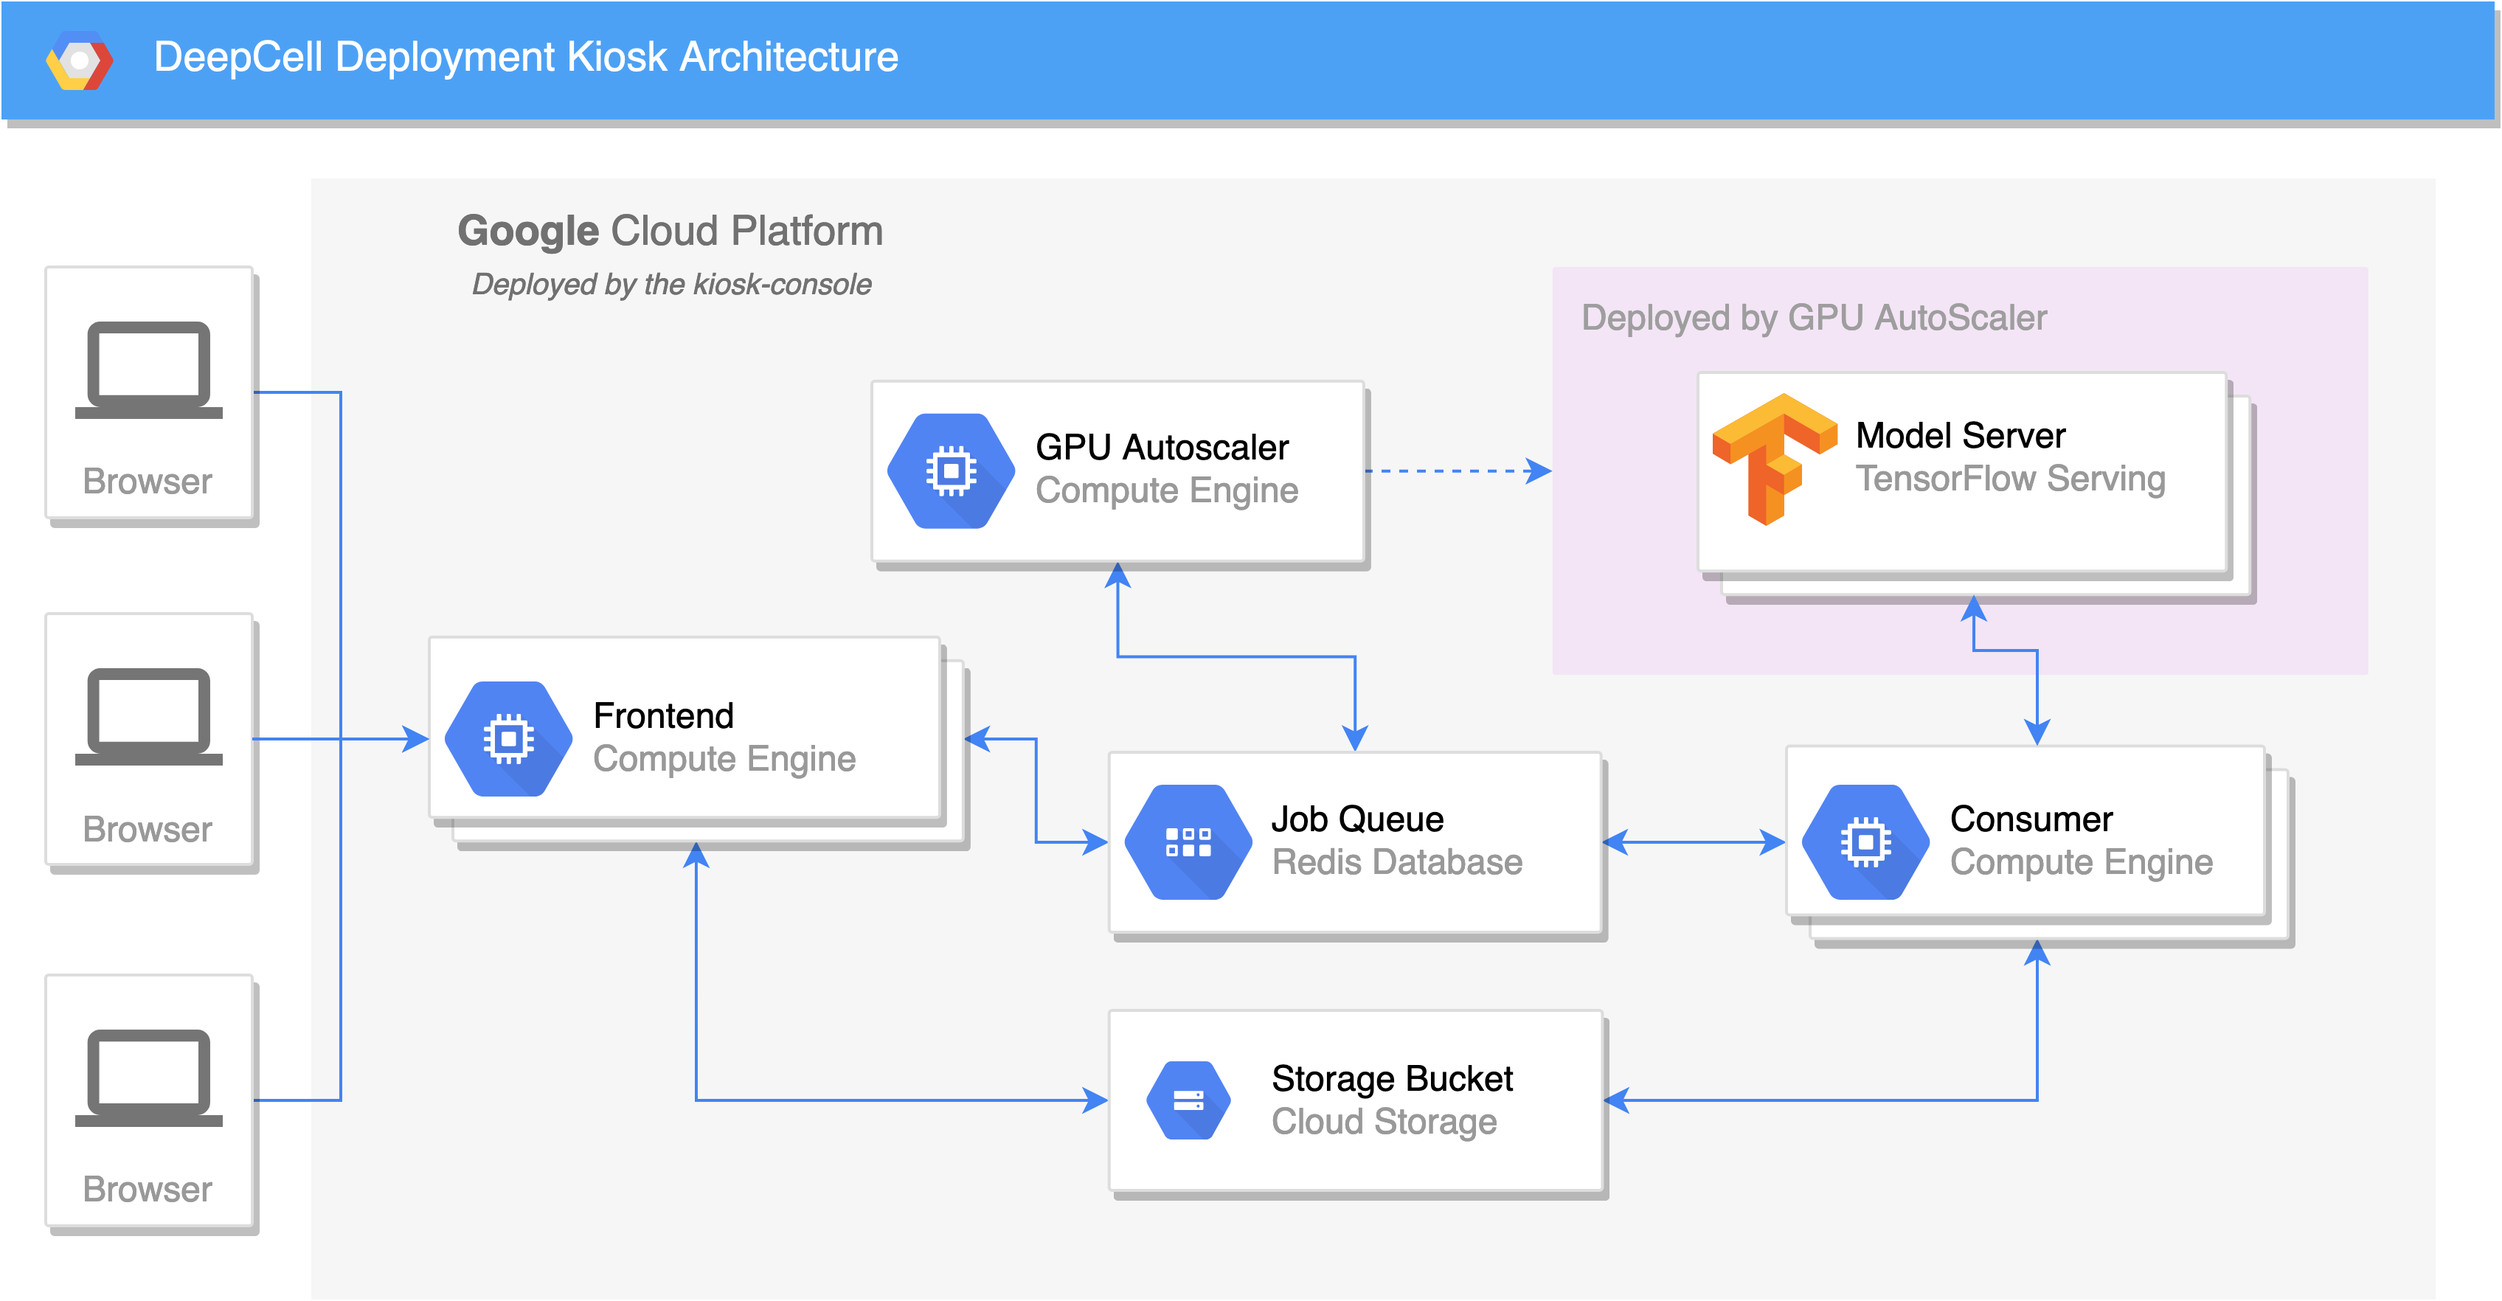
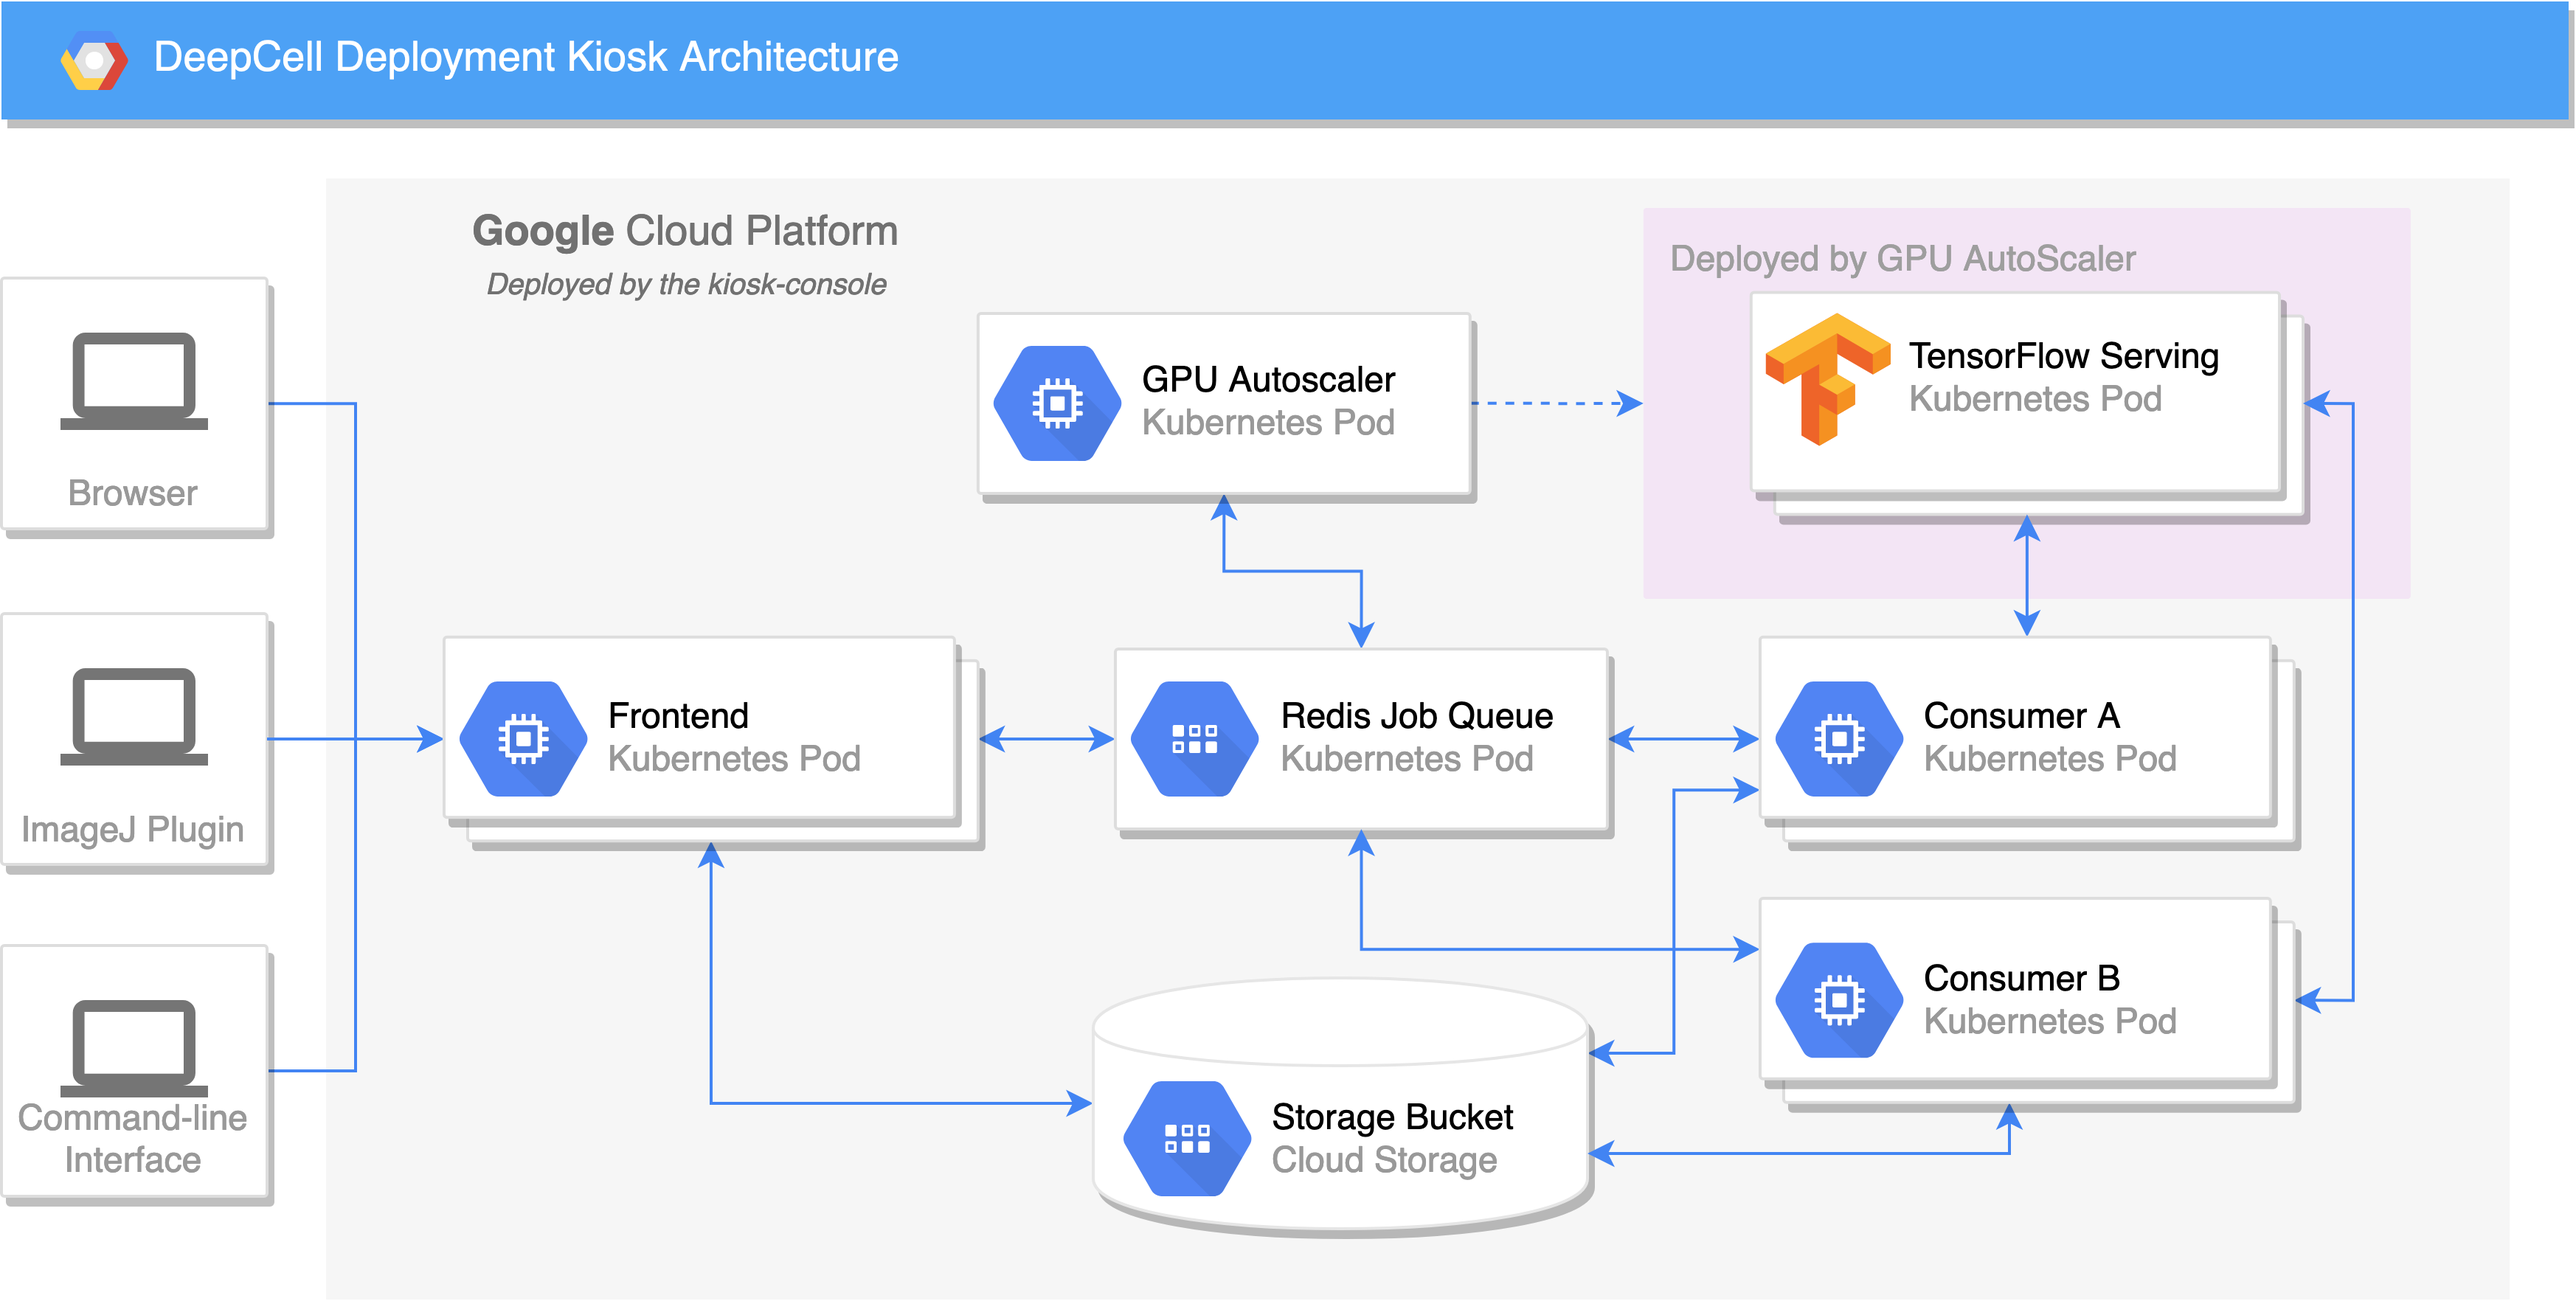
Doc tweaks for paper resubmission (#374)
* these are the files that correspond to figure S1

* adding benchmarking documentation

* cleaning up benchmarking documentation

* added in instructions on reproducing the figures from the paper

* fixing RST errors

* sequestering all benchmarking figure talk in its own subsections

* cleaned up so that the two benchmarking figure subsections can be easily moved over to publication-figures

* moving figure recreation details to publication-figures repo

* Update docs/source/DEVELOPER.rst

* Update docs/source/DEVELOPER.rst

* Update docs/source/DEVELOPER.rst

* Update docs/source/DEVELOPER.rst

* Update docs/source/DEVELOPER.rst

* trimming text

* cleaning benchmarking documentation

* Update docs/source/DEVELOPER.rst

* Update docs/source/DEVELOPER.rst

* Update docs/source/DEVELOPER.rst

* expanding benchmarking procedure documentation

* providing functioning public link to kiosk-benchmarking bucket

* punctuation cleanup

* Update docs/source/DEVELOPER.rst

* fixing corrupted link

* simplifying and unifying icons and connections in architecture diagram

* modifying reference to publication-figures repo to reflect reorganization of that repo

* updating link to publication-figures repo

* cleaning up architecture diagram

* Update docs/source/DEVELOPER.rst

* scaling to the desired dpi

* Upate spacing in architecture diagram (#375)

* One of the consumers should be "Consumer B".

* Update docs/source/DEVELOPER.rst

* touching up text

diff --git a/docs/source/DEVELOPER.rst b/docs/source/DEVELOPER.rst
@@ -144,3 +144,32 @@ The Deepcell Kiosk uses Google Kubernetes Engine to requisition resources on Goo
 5. any Persistent Disks associated with your cluster
 
 While we hope this list is comprehensive, there could be some lingering resources used by Google Cloud and not deleted automatically that we're not aware of.
+
+Benchmarking the DeepCell Kiosk
+---------------------------------------------------------
+
+The DeepCell Kiosk comes with a utility for benchmarking the scalability and performance of a deep learning workflow. To reproduce the cost and timing benchmarks reported in the DeepCell Kiosk paper, please refer to `the 2020-Bannon_et_al-Kiosk folder of our figure creation repository <https://github.com/vanvalenlab/publication-figures/tree/master/2020-Bannon_et_al-Kiosk>`_. To run your own benchmarking, please read below.
+
+1. If you don't already have a cloud storage bucket for use with the DeepCell Kiosk, you should create one now. It's fine to reuse this bucket across multiple DeepCell Kiosk clusters.
+
+2. There are three variables in the benchmarking pod's YAML file, ``conf/helmfile.d/0410.benchmarking.yaml``, that may need to be customized before benchmarking:
+
+    - ``MODEL`` is the model name and version that will be used in benchmarking. The model you choose should be present in the ``models/`` folder of your benchmarking bucket. See the `Van Valen Lab's benchmarking bucket <https://console.cloud.google.com/storage/browser/kiosk-benchmarking>`_ for an example.
+    - ``FILE`` is the name of the file that will be used for benchmarking. A file by this name should be in your benchmarking bucket in the ``uploads/`` folder.    
+    - ``COUNT`` specifies how many times the ``FILE`` will be submitted to the cluster for processing.
+
+3. Deploy a DeepCell Kiosk as you normally would. While navigating the cluster configuration menu, pay special attention to two configuration settings:
+
+    - The bucket name you provide should be that of the benchmarking bucket from step 1.
+    - The Maximum Number of GPUs has a strong effect on benchmarking time by effectively limiting how large the cluster can scale.
+
+4. Once the cluster has deployed successfully, drop to the ``Shell`` via the DeepCell Kiosk main menu and begin the benchmarking process by executing the following command: ``kubectl scale deployment benchmarking --replicas=1``
+
+5. Benchmarking jobs can take a day or more, depending on the conditions (number of images and max number of GPUs) chosen. To monitor the status of your benchmarking job, drop to the ``Shell`` within the DeepCell Kiosk main menu and execute the command ``stern benchmarking -s 10m``. This will show you the most recent log output from the `benchmarking` pod. When benchmarking has finished, the final line in the log should be ``Uploaded [FILEPATH] to [BUCKET] in [SECONDS] seconds.``, where ``[FILEPATH]`` is the location in ``[BUCKET]`` where the benchmarking data has been saved.
+
+6. Now that the benchmarking process has finished, clean up the benchmarking resources by executing ``kubectl scale deployment benchmarking --replicas 0`` at the DeepCell Kiosk's ``Shell``. This prevents the benchmarking process from executing multiple times in long-lived clusters.
+
+7. Finally, you can download and analyze your benchmarking data. Two top-level fields in this large JSON file that are of interest are:
+
+    - ``time_elapsed``: the exact running time of the benchmarking procedure (seconds)
+    - ``total_node_and_networking_costs``: a slight underestimate of the total costs of the benchmarking run. (This total does not include Storage, Operation, or Storage Egress Fees. These extra fees `can be calculated <https://github.com/vanvalenlab/publication-figures/blob/383a90149eb86d4a0a697395edffb32d383bb1ca/figure_generation/data_extractor.py#L318>`_ after the fact by using the `Google Cloud guidelines <https://cloud.google.com/vpc/network-pricing#general>`_.)
